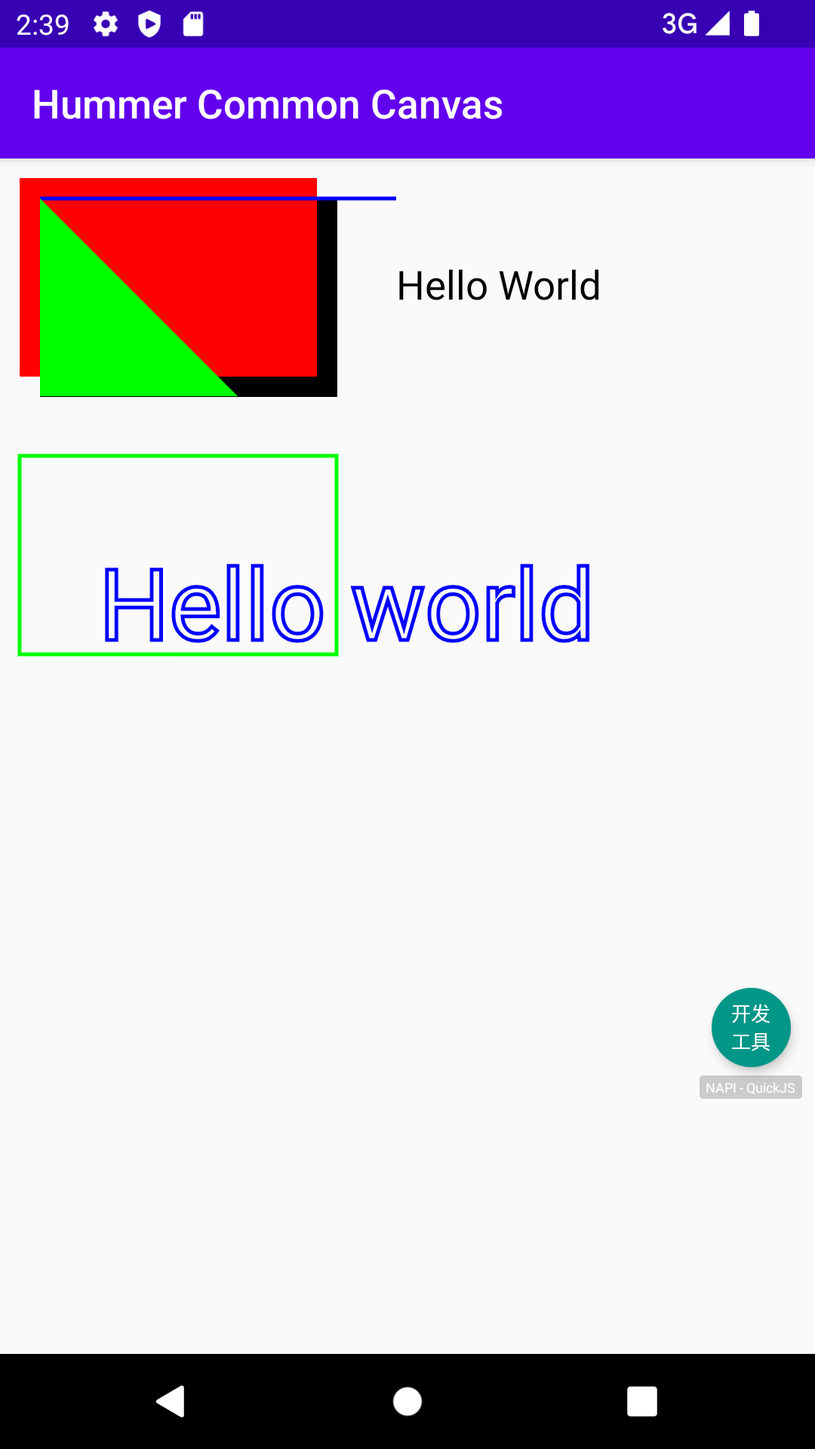
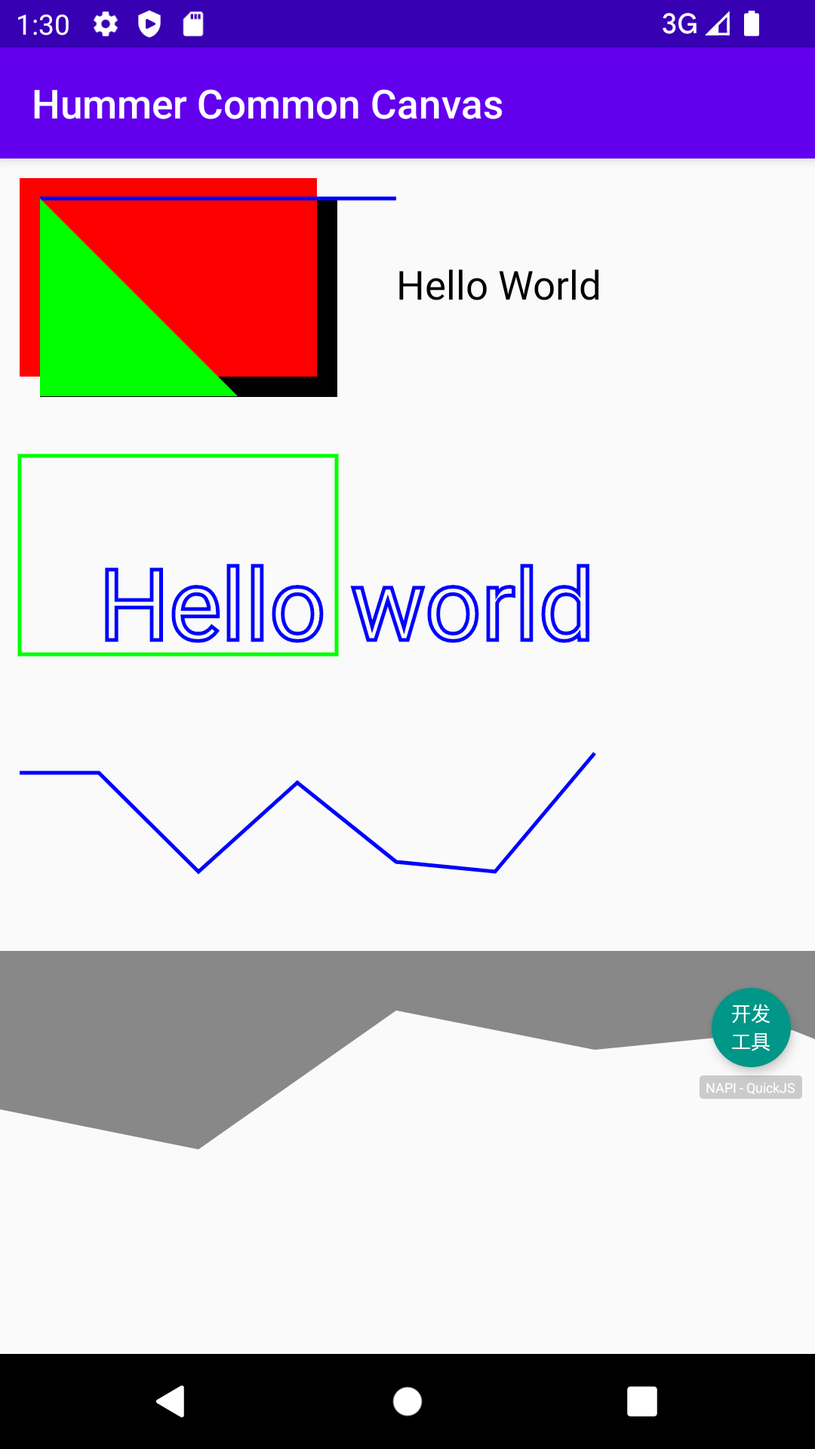
d3-shape demo

diff --git a/app/src/main/assets/d3-shape@3.js b/app/src/main/assets/d3-shape@3.js
@@ -1,0 +1,2 @@
+// https://d3js.org/d3-shape/ v3.2.0 Copyright 2010-2022 Mike Bostock
+!function(t,n){"object"==typeof exports&&"undefined"!=typeof module?n(exports,require("d3-path")):"function"==typeof define&&define.amd?define(["exports","d3-path"],n):n((t="undefined"!=typeof globalThis?globalThis:t||self).d3=t.d3||{},t.d3)}(this,(function(t,n){"use strict";function i(t){return function(){return t}}const e=Math.abs,s=Math.atan2,o=Math.cos,h=Math.max,_=Math.min,r=Math.sin,a=Math.sqrt,l=1e-12,c=Math.PI,u=c/2,f=2*c;function y(t){return t>1?0:t<-1?c:Math.acos(t)}function x(t){return t>=1?u:t<=-1?-u:Math.asin(t)}function p(t){let i=3;return t.digits=function(n){if(!arguments.length)return i;if(null==n)i=null;else{const t=Math.floor(n);if(!(t>=0))throw new RangeError(`invalid digits: ${n}`);i=t}return t},()=>new n.Path(i)}function v(t){return t.innerRadius}function d(t){return t.outerRadius}function T(t){return t.startAngle}function g(t){return t.endAngle}function m(t){return t&&t.padAngle}function b(t,n,i,e,s,o,h,_){var r=i-t,a=e-n,c=h-s,u=_-o,f=u*r-c*a;if(!(f*f<l))return[t+(f=(c*(n-o)-u*(t-s))/f)*r,n+f*a]}function w(t,n,i,e,s,o,_){var r=t-i,l=n-e,c=(_?o:-o)/a(r*r+l*l),u=c*l,f=-c*r,y=t+u,x=n+f,p=i+u,v=e+f,d=(y+p)/2,T=(x+v)/2,g=p-y,m=v-x,b=g*g+m*m,w=s-o,k=y*v-p*x,N=(m<0?-1:1)*a(h(0,w*w*b-k*k)),S=(k*m-g*N)/b,E=(-k*g-m*N)/b,A=(k*m+g*N)/b,P=(-k*g+m*N)/b,M=S-d,C=E-T,R=A-d,O=P-T;return M*M+C*C>R*R+O*O&&(S=A,E=P),{cx:S,cy:E,x01:-u,y01:-f,x11:S*(s/w-1),y11:E*(s/w-1)}}var k=Array.prototype.slice;function N(t){return"object"==typeof t&&"length"in t?t:Array.from(t)}function S(t){this._context=t}function E(t){return new S(t)}function A(t){return t[0]}function P(t){return t[1]}function M(t,n){var e=i(!0),s=null,o=E,h=null,_=p(r);function r(i){var r,a,l,c=(i=N(i)).length,u=!1;for(null==s&&(h=o(l=_())),r=0;r<=c;++r)!(r<c&&e(a=i[r],r,i))===u&&((u=!u)?h.lineStart():h.lineEnd()),u&&h.point(+t(a,r,i),+n(a,r,i));if(l)return h=null,l+""||null}return t="function"==typeof t?t:void 0===t?A:i(t),n="function"==typeof n?n:void 0===n?P:i(n),r.x=function(n){return arguments.length?(t="function"==typeof n?n:i(+n),r):t},r.y=function(t){return arguments.length?(n="function"==typeof t?t:i(+t),r):n},r.defined=function(t){return arguments.length?(e="function"==typeof t?t:i(!!t),r):e},r.curve=function(t){return arguments.length?(o=t,null!=s&&(h=o(s)),r):o},r.context=function(t){return arguments.length?(null==t?s=h=null:h=o(s=t),r):s},r}function C(t,n,e){var s=null,o=i(!0),h=null,_=E,r=null,a=p(l);function l(i){var l,c,u,f,y,x=(i=N(i)).length,p=!1,v=new Array(x),d=new Array(x);for(null==h&&(r=_(y=a())),l=0;l<=x;++l){if(!(l<x&&o(f=i[l],l,i))===p)if(p=!p)c=l,r.areaStart(),r.lineStart();else{for(r.lineEnd(),r.lineStart(),u=l-1;u>=c;--u)r.point(v[u],d[u]);r.lineEnd(),r.areaEnd()}p&&(v[l]=+t(f,l,i),d[l]=+n(f,l,i),r.point(s?+s(f,l,i):v[l],e?+e(f,l,i):d[l]))}if(y)return r=null,y+""||null}function c(){return M().defined(o).curve(_).context(h)}return t="function"==typeof t?t:void 0===t?A:i(+t),n="function"==typeof n?n:i(void 0===n?0:+n),e="function"==typeof e?e:void 0===e?P:i(+e),l.x=function(n){return arguments.length?(t="function"==typeof n?n:i(+n),s=null,l):t},l.x0=function(n){return arguments.length?(t="function"==typeof n?n:i(+n),l):t},l.x1=function(t){return arguments.length?(s=null==t?null:"function"==typeof t?t:i(+t),l):s},l.y=function(t){return arguments.length?(n="function"==typeof t?t:i(+t),e=null,l):n},l.y0=function(t){return arguments.length?(n="function"==typeof t?t:i(+t),l):n},l.y1=function(t){return arguments.length?(e=null==t?null:"function"==typeof t?t:i(+t),l):e},l.lineX0=l.lineY0=function(){return c().x(t).y(n)},l.lineY1=function(){return c().x(t).y(e)},l.lineX1=function(){return c().x(s).y(n)},l.defined=function(t){return arguments.length?(o="function"==typeof t?t:i(!!t),l):o},l.curve=function(t){return arguments.length?(_=t,null!=h&&(r=_(h)),l):_},l.context=function(t){return arguments.length?(null==t?h=r=null:r=_(h=t),l):h},l}function R(t,n){return n<t?-1:n>t?1:n>=t?0:NaN}function O(t){return t}S.prototype={areaStart:function(){this._line=0},areaEnd:function(){this._line=NaN},lineStart:function(){this._point=0},lineEnd:function(){(this._line||0!==this._line&&1===this._point)&&this._context.closePath(),this._line=1-this._line},point:function(t,n){switch(t=+t,n=+n,this._point){case 0:this._point=1,this._line?this._context.lineTo(t,n):this._context.moveTo(t,n);break;case 1:this._point=2;default:this._context.lineTo(t,n)}}};var z=Y(E);function X(t){this._curve=t}function Y(t){function n(n){return new X(t(n))}return n._curve=t,n}function q(t){var n=t.curve;return t.angle=t.x,delete t.x,t.radius=t.y,delete t.y,t.curve=function(t){return arguments.length?n(Y(t)):n()._curve},t}function B(){return q(M().curve(z))}function D(){var t=C().curve(z),n=t.curve,i=t.lineX0,e=t.lineX1,s=t.lineY0,o=t.lineY1;return t.angle=t.x,delete t.x,t.startAngle=t.x0,delete t.x0,t.endAngle=t.x1,delete t.x1,t.radius=t.y,delete t.y,t.innerRadius=t.y0,delete t.y0,t.outerRadius=t.y1,delete t.y1,t.lineStartAngle=function(){return q(i())},delete t.lineX0,t.lineEndAngle=function(){return q(e())},delete t.lineX1,t.lineInnerRadius=function(){return q(s())},delete t.lineY0,t.lineOuterRadius=function(){return q(o())},delete t.lineY1,t.curve=function(t){return arguments.length?n(Y(t)):n()._curve},t}function I(t,n){return[(n=+n)*Math.cos(t-=Math.PI/2),n*Math.sin(t)]}X.prototype={areaStart:function(){this._curve.areaStart()},areaEnd:function(){this._curve.areaEnd()},lineStart:function(){this._curve.lineStart()},lineEnd:function(){this._curve.lineEnd()},point:function(t,n){this._curve.point(n*Math.sin(t),n*-Math.cos(t))}};class j{constructor(t,n){this._context=t,this._x=n}areaStart(){this._line=0}areaEnd(){this._line=NaN}lineStart(){this._point=0}lineEnd(){(this._line||0!==this._line&&1===this._point)&&this._context.closePath(),this._line=1-this._line}point(t,n){switch(t=+t,n=+n,this._point){case 0:this._point=1,this._line?this._context.lineTo(t,n):this._context.moveTo(t,n);break;case 1:this._point=2;default:this._x?this._context.bezierCurveTo(this._x0=(this._x0+t)/2,this._y0,this._x0,n,t,n):this._context.bezierCurveTo(this._x0,this._y0=(this._y0+n)/2,t,this._y0,t,n)}this._x0=t,this._y0=n}}class L{constructor(t){this._context=t}lineStart(){this._point=0}lineEnd(){}point(t,n){if(t=+t,n=+n,0===this._point)this._point=1;else{const i=I(this._x0,this._y0),e=I(this._x0,this._y0=(this._y0+n)/2),s=I(t,this._y0),o=I(t,n);this._context.moveTo(...i),this._context.bezierCurveTo(...e,...s,...o)}this._x0=t,this._y0=n}}function V(t){return new j(t,!0)}function W(t){return new j(t,!1)}function F(t){return new L(t)}function H(t){return t.source}function $(t){return t.target}function G(t){let n=H,e=$,s=A,o=P,h=null,_=null,r=p(a);function a(){let i;const a=k.call(arguments),l=n.apply(this,a),c=e.apply(this,a);if(null==h&&(_=t(i=r())),_.lineStart(),a[0]=l,_.point(+s.apply(this,a),+o.apply(this,a)),a[0]=c,_.point(+s.apply(this,a),+o.apply(this,a)),_.lineEnd(),i)return _=null,i+""||null}return a.source=function(t){return arguments.length?(n=t,a):n},a.target=function(t){return arguments.length?(e=t,a):e},a.x=function(t){return arguments.length?(s="function"==typeof t?t:i(+t),a):s},a.y=function(t){return arguments.length?(o="function"==typeof t?t:i(+t),a):o},a.context=function(n){return arguments.length?(null==n?h=_=null:_=t(h=n),a):h},a}const J=a(3);var K={draw(t,n){const i=.59436*a(n+_(n/28,.75)),e=i/2,s=e*J;t.moveTo(0,i),t.lineTo(0,-i),t.moveTo(-s,-e),t.lineTo(s,e),t.moveTo(-s,e),t.lineTo(s,-e)}},Q={draw(t,n){const i=a(n/c);t.moveTo(i,0),t.arc(0,0,i,0,f)}},U={draw(t,n){const i=a(n/5)/2;t.moveTo(-3*i,-i),t.lineTo(-i,-i),t.lineTo(-i,-3*i),t.lineTo(i,-3*i),t.lineTo(i,-i),t.lineTo(3*i,-i),t.lineTo(3*i,i),t.lineTo(i,i),t.lineTo(i,3*i),t.lineTo(-i,3*i),t.lineTo(-i,i),t.lineTo(-3*i,i),t.closePath()}};const Z=a(1/3),tt=2*Z;var nt={draw(t,n){const i=a(n/tt),e=i*Z;t.moveTo(0,-i),t.lineTo(e,0),t.lineTo(0,i),t.lineTo(-e,0),t.closePath()}},it={draw(t,n){const i=.62625*a(n);t.moveTo(0,-i),t.lineTo(i,0),t.lineTo(0,i),t.lineTo(-i,0),t.closePath()}},et={draw(t,n){const i=.87559*a(n-_(n/7,2));t.moveTo(-i,0),t.lineTo(i,0),t.moveTo(0,i),t.lineTo(0,-i)}},st={draw(t,n){const i=a(n),e=-i/2;t.rect(e,e,i,i)}},ot={draw(t,n){const i=.4431*a(n);t.moveTo(i,i),t.lineTo(i,-i),t.lineTo(-i,-i),t.lineTo(-i,i),t.closePath()}};const ht=r(c/10)/r(7*c/10),_t=r(f/10)*ht,rt=-o(f/10)*ht;var at={draw(t,n){const i=a(.8908130915292852*n),e=_t*i,s=rt*i;t.moveTo(0,-i),t.lineTo(e,s);for(let n=1;n<5;++n){const h=f*n/5,_=o(h),a=r(h);t.lineTo(a*i,-_*i),t.lineTo(_*e-a*s,a*e+_*s)}t.closePath()}};const lt=a(3);var ct={draw(t,n){const i=-a(n/(3*lt));t.moveTo(0,2*i),t.lineTo(-lt*i,-i),t.lineTo(lt*i,-i),t.closePath()}};const ut=a(3);var ft={draw(t,n){const i=.6824*a(n),e=i/2,s=i*ut/2;t.moveTo(0,-i),t.lineTo(s,e),t.lineTo(-s,e),t.closePath()}};const yt=-.5,xt=a(3)/2,pt=1/a(12),vt=3*(pt/2+1);var dt={draw(t,n){const i=a(n/vt),e=i/2,s=i*pt,o=e,h=i*pt+i,_=-o,r=h;t.moveTo(e,s),t.lineTo(o,h),t.lineTo(_,r),t.lineTo(yt*e-xt*s,xt*e+yt*s),t.lineTo(yt*o-xt*h,xt*o+yt*h),t.lineTo(yt*_-xt*r,xt*_+yt*r),t.lineTo(yt*e+xt*s,yt*s-xt*e),t.lineTo(yt*o+xt*h,yt*h-xt*o),t.lineTo(yt*_+xt*r,yt*r-xt*_),t.closePath()}},Tt={draw(t,n){const i=.6189*a(n-_(n/6,1.7));t.moveTo(-i,-i),t.lineTo(i,i),t.moveTo(-i,i),t.lineTo(i,-i)}};const gt=[Q,U,nt,st,at,ct,dt],mt=[Q,et,Tt,ft,K,ot,it];function bt(){}function wt(t,n,i){t._context.bezierCurveTo((2*t._x0+t._x1)/3,(2*t._y0+t._y1)/3,(t._x0+2*t._x1)/3,(t._y0+2*t._y1)/3,(t._x0+4*t._x1+n)/6,(t._y0+4*t._y1+i)/6)}function kt(t){this._context=t}function Nt(t){this._context=t}function St(t){this._context=t}function Et(t,n){this._basis=new kt(t),this._beta=n}kt.prototype={areaStart:function(){this._line=0},areaEnd:function(){this._line=NaN},lineStart:function(){this._x0=this._x1=this._y0=this._y1=NaN,this._point=0},lineEnd:function(){switch(this._point){case 3:wt(this,this._x1,this._y1);case 2:this._context.lineTo(this._x1,this._y1)}(this._line||0!==this._line&&1===this._point)&&this._context.closePath(),this._line=1-this._line},point:function(t,n){switch(t=+t,n=+n,this._point){case 0:this._point=1,this._line?this._context.lineTo(t,n):this._context.moveTo(t,n);break;case 1:this._point=2;break;case 2:this._point=3,this._context.lineTo((5*this._x0+this._x1)/6,(5*this._y0+this._y1)/6);default:wt(this,t,n)}this._x0=this._x1,this._x1=t,this._y0=this._y1,this._y1=n}},Nt.prototype={areaStart:bt,areaEnd:bt,lineStart:function(){this._x0=this._x1=this._x2=this._x3=this._x4=this._y0=this._y1=this._y2=this._y3=this._y4=NaN,this._point=0},lineEnd:function(){switch(this._point){case 1:this._context.moveTo(this._x2,this._y2),this._context.closePath();break;case 2:this._context.moveTo((this._x2+2*this._x3)/3,(this._y2+2*this._y3)/3),this._context.lineTo((this._x3+2*this._x2)/3,(this._y3+2*this._y2)/3),this._context.closePath();break;case 3:this.point(this._x2,this._y2),this.point(this._x3,this._y3),this.point(this._x4,this._y4)}},point:function(t,n){switch(t=+t,n=+n,this._point){case 0:this._point=1,this._x2=t,this._y2=n;break;case 1:this._point=2,this._x3=t,this._y3=n;break;case 2:this._point=3,this._x4=t,this._y4=n,this._context.moveTo((this._x0+4*this._x1+t)/6,(this._y0+4*this._y1+n)/6);break;default:wt(this,t,n)}this._x0=this._x1,this._x1=t,this._y0=this._y1,this._y1=n}},St.prototype={areaStart:function(){this._line=0},areaEnd:function(){this._line=NaN},lineStart:function(){this._x0=this._x1=this._y0=this._y1=NaN,this._point=0},lineEnd:function(){(this._line||0!==this._line&&3===this._point)&&this._context.closePath(),this._line=1-this._line},point:function(t,n){switch(t=+t,n=+n,this._point){case 0:this._point=1;break;case 1:this._point=2;break;case 2:this._point=3;var i=(this._x0+4*this._x1+t)/6,e=(this._y0+4*this._y1+n)/6;this._line?this._context.lineTo(i,e):this._context.moveTo(i,e);break;case 3:this._point=4;default:wt(this,t,n)}this._x0=this._x1,this._x1=t,this._y0=this._y1,this._y1=n}},Et.prototype={lineStart:function(){this._x=[],this._y=[],this._basis.lineStart()},lineEnd:function(){var t=this._x,n=this._y,i=t.length-1;if(i>0)for(var e,s=t[0],o=n[0],h=t[i]-s,_=n[i]-o,r=-1;++r<=i;)e=r/i,this._basis.point(this._beta*t[r]+(1-this._beta)*(s+e*h),this._beta*n[r]+(1-this._beta)*(o+e*_));this._x=this._y=null,this._basis.lineEnd()},point:function(t,n){this._x.push(+t),this._y.push(+n)}};var At=function t(n){function i(t){return 1===n?new kt(t):new Et(t,n)}return i.beta=function(n){return t(+n)},i}(.85);function Pt(t,n,i){t._context.bezierCurveTo(t._x1+t._k*(t._x2-t._x0),t._y1+t._k*(t._y2-t._y0),t._x2+t._k*(t._x1-n),t._y2+t._k*(t._y1-i),t._x2,t._y2)}function Mt(t,n){this._context=t,this._k=(1-n)/6}Mt.prototype={areaStart:function(){this._line=0},areaEnd:function(){this._line=NaN},lineStart:function(){this._x0=this._x1=this._x2=this._y0=this._y1=this._y2=NaN,this._point=0},lineEnd:function(){switch(this._point){case 2:this._context.lineTo(this._x2,this._y2);break;case 3:Pt(this,this._x1,this._y1)}(this._line||0!==this._line&&1===this._point)&&this._context.closePath(),this._line=1-this._line},point:function(t,n){switch(t=+t,n=+n,this._point){case 0:this._point=1,this._line?this._context.lineTo(t,n):this._context.moveTo(t,n);break;case 1:this._point=2,this._x1=t,this._y1=n;break;case 2:this._point=3;default:Pt(this,t,n)}this._x0=this._x1,this._x1=this._x2,this._x2=t,this._y0=this._y1,this._y1=this._y2,this._y2=n}};var Ct=function t(n){function i(t){return new Mt(t,n)}return i.tension=function(n){return t(+n)},i}(0);function Rt(t,n){this._context=t,this._k=(1-n)/6}Rt.prototype={areaStart:bt,areaEnd:bt,lineStart:function(){this._x0=this._x1=this._x2=this._x3=this._x4=this._x5=this._y0=this._y1=this._y2=this._y3=this._y4=this._y5=NaN,this._point=0},lineEnd:function(){switch(this._point){case 1:this._context.moveTo(this._x3,this._y3),this._context.closePath();break;case 2:this._context.lineTo(this._x3,this._y3),this._context.closePath();break;case 3:this.point(this._x3,this._y3),this.point(this._x4,this._y4),this.point(this._x5,this._y5)}},point:function(t,n){switch(t=+t,n=+n,this._point){case 0:this._point=1,this._x3=t,this._y3=n;break;case 1:this._point=2,this._context.moveTo(this._x4=t,this._y4=n);break;case 2:this._point=3,this._x5=t,this._y5=n;break;default:Pt(this,t,n)}this._x0=this._x1,this._x1=this._x2,this._x2=t,this._y0=this._y1,this._y1=this._y2,this._y2=n}};var Ot=function t(n){function i(t){return new Rt(t,n)}return i.tension=function(n){return t(+n)},i}(0);function zt(t,n){this._context=t,this._k=(1-n)/6}zt.prototype={areaStart:function(){this._line=0},areaEnd:function(){this._line=NaN},lineStart:function(){this._x0=this._x1=this._x2=this._y0=this._y1=this._y2=NaN,this._point=0},lineEnd:function(){(this._line||0!==this._line&&3===this._point)&&this._context.closePath(),this._line=1-this._line},point:function(t,n){switch(t=+t,n=+n,this._point){case 0:this._point=1;break;case 1:this._point=2;break;case 2:this._point=3,this._line?this._context.lineTo(this._x2,this._y2):this._context.moveTo(this._x2,this._y2);break;case 3:this._point=4;default:Pt(this,t,n)}this._x0=this._x1,this._x1=this._x2,this._x2=t,this._y0=this._y1,this._y1=this._y2,this._y2=n}};var Xt=function t(n){function i(t){return new zt(t,n)}return i.tension=function(n){return t(+n)},i}(0);function Yt(t,n,i){var e=t._x1,s=t._y1,o=t._x2,h=t._y2;if(t._l01_a>l){var _=2*t._l01_2a+3*t._l01_a*t._l12_a+t._l12_2a,r=3*t._l01_a*(t._l01_a+t._l12_a);e=(e*_-t._x0*t._l12_2a+t._x2*t._l01_2a)/r,s=(s*_-t._y0*t._l12_2a+t._y2*t._l01_2a)/r}if(t._l23_a>l){var a=2*t._l23_2a+3*t._l23_a*t._l12_a+t._l12_2a,c=3*t._l23_a*(t._l23_a+t._l12_a);o=(o*a+t._x1*t._l23_2a-n*t._l12_2a)/c,h=(h*a+t._y1*t._l23_2a-i*t._l12_2a)/c}t._context.bezierCurveTo(e,s,o,h,t._x2,t._y2)}function qt(t,n){this._context=t,this._alpha=n}qt.prototype={areaStart:function(){this._line=0},areaEnd:function(){this._line=NaN},lineStart:function(){this._x0=this._x1=this._x2=this._y0=this._y1=this._y2=NaN,this._l01_a=this._l12_a=this._l23_a=this._l01_2a=this._l12_2a=this._l23_2a=this._point=0},lineEnd:function(){switch(this._point){case 2:this._context.lineTo(this._x2,this._y2);break;case 3:this.point(this._x2,this._y2)}(this._line||0!==this._line&&1===this._point)&&this._context.closePath(),this._line=1-this._line},point:function(t,n){if(t=+t,n=+n,this._point){var i=this._x2-t,e=this._y2-n;this._l23_a=Math.sqrt(this._l23_2a=Math.pow(i*i+e*e,this._alpha))}switch(this._point){case 0:this._point=1,this._line?this._context.lineTo(t,n):this._context.moveTo(t,n);break;case 1:this._point=2;break;case 2:this._point=3;default:Yt(this,t,n)}this._l01_a=this._l12_a,this._l12_a=this._l23_a,this._l01_2a=this._l12_2a,this._l12_2a=this._l23_2a,this._x0=this._x1,this._x1=this._x2,this._x2=t,this._y0=this._y1,this._y1=this._y2,this._y2=n}};var Bt=function t(n){function i(t){return n?new qt(t,n):new Mt(t,0)}return i.alpha=function(n){return t(+n)},i}(.5);function Dt(t,n){this._context=t,this._alpha=n}Dt.prototype={areaStart:bt,areaEnd:bt,lineStart:function(){this._x0=this._x1=this._x2=this._x3=this._x4=this._x5=this._y0=this._y1=this._y2=this._y3=this._y4=this._y5=NaN,this._l01_a=this._l12_a=this._l23_a=this._l01_2a=this._l12_2a=this._l23_2a=this._point=0},lineEnd:function(){switch(this._point){case 1:this._context.moveTo(this._x3,this._y3),this._context.closePath();break;case 2:this._context.lineTo(this._x3,this._y3),this._context.closePath();break;case 3:this.point(this._x3,this._y3),this.point(this._x4,this._y4),this.point(this._x5,this._y5)}},point:function(t,n){if(t=+t,n=+n,this._point){var i=this._x2-t,e=this._y2-n;this._l23_a=Math.sqrt(this._l23_2a=Math.pow(i*i+e*e,this._alpha))}switch(this._point){case 0:this._point=1,this._x3=t,this._y3=n;break;case 1:this._point=2,this._context.moveTo(this._x4=t,this._y4=n);break;case 2:this._point=3,this._x5=t,this._y5=n;break;default:Yt(this,t,n)}this._l01_a=this._l12_a,this._l12_a=this._l23_a,this._l01_2a=this._l12_2a,this._l12_2a=this._l23_2a,this._x0=this._x1,this._x1=this._x2,this._x2=t,this._y0=this._y1,this._y1=this._y2,this._y2=n}};var It=function t(n){function i(t){return n?new Dt(t,n):new Rt(t,0)}return i.alpha=function(n){return t(+n)},i}(.5);function jt(t,n){this._context=t,this._alpha=n}jt.prototype={areaStart:function(){this._line=0},areaEnd:function(){this._line=NaN},lineStart:function(){this._x0=this._x1=this._x2=this._y0=this._y1=this._y2=NaN,this._l01_a=this._l12_a=this._l23_a=this._l01_2a=this._l12_2a=this._l23_2a=this._point=0},lineEnd:function(){(this._line||0!==this._line&&3===this._point)&&this._context.closePath(),this._line=1-this._line},point:function(t,n){if(t=+t,n=+n,this._point){var i=this._x2-t,e=this._y2-n;this._l23_a=Math.sqrt(this._l23_2a=Math.pow(i*i+e*e,this._alpha))}switch(this._point){case 0:this._point=1;break;case 1:this._point=2;break;case 2:this._point=3,this._line?this._context.lineTo(this._x2,this._y2):this._context.moveTo(this._x2,this._y2);break;case 3:this._point=4;default:Yt(this,t,n)}this._l01_a=this._l12_a,this._l12_a=this._l23_a,this._l01_2a=this._l12_2a,this._l12_2a=this._l23_2a,this._x0=this._x1,this._x1=this._x2,this._x2=t,this._y0=this._y1,this._y1=this._y2,this._y2=n}};var Lt=function t(n){function i(t){return n?new jt(t,n):new zt(t,0)}return i.alpha=function(n){return t(+n)},i}(.5);function Vt(t){this._context=t}function Wt(t){return t<0?-1:1}function Ft(t,n,i){var e=t._x1-t._x0,s=n-t._x1,o=(t._y1-t._y0)/(e||s<0&&-0),h=(i-t._y1)/(s||e<0&&-0),_=(o*s+h*e)/(e+s);return(Wt(o)+Wt(h))*Math.min(Math.abs(o),Math.abs(h),.5*Math.abs(_))||0}function Ht(t,n){var i=t._x1-t._x0;return i?(3*(t._y1-t._y0)/i-n)/2:n}function $t(t,n,i){var e=t._x0,s=t._y0,o=t._x1,h=t._y1,_=(o-e)/3;t._context.bezierCurveTo(e+_,s+_*n,o-_,h-_*i,o,h)}function Gt(t){this._context=t}function Jt(t){this._context=new Kt(t)}function Kt(t){this._context=t}function Qt(t){this._context=t}function Ut(t){var n,i,e=t.length-1,s=new Array(e),o=new Array(e),h=new Array(e);for(s[0]=0,o[0]=2,h[0]=t[0]+2*t[1],n=1;n<e-1;++n)s[n]=1,o[n]=4,h[n]=4*t[n]+2*t[n+1];for(s[e-1]=2,o[e-1]=7,h[e-1]=8*t[e-1]+t[e],n=1;n<e;++n)i=s[n]/o[n-1],o[n]-=i,h[n]-=i*h[n-1];for(s[e-1]=h[e-1]/o[e-1],n=e-2;n>=0;--n)s[n]=(h[n]-s[n+1])/o[n];for(o[e-1]=(t[e]+s[e-1])/2,n=0;n<e-1;++n)o[n]=2*t[n+1]-s[n+1];return[s,o]}function Zt(t,n){this._context=t,this._t=n}function tn(t,n){if((s=t.length)>1)for(var i,e,s,o=1,h=t[n[0]],_=h.length;o<s;++o)for(e=h,h=t[n[o]],i=0;i<_;++i)h[i][1]+=h[i][0]=isNaN(e[i][1])?e[i][0]:e[i][1]}function nn(t){for(var n=t.length,i=new Array(n);--n>=0;)i[n]=n;return i}function en(t,n){return t[n]}function sn(t){const n=[];return n.key=t,n}function on(t){var n=t.map(hn);return nn(t).sort((function(t,i){return n[t]-n[i]}))}function hn(t){for(var n,i=-1,e=0,s=t.length,o=-1/0;++i<s;)(n=+t[i][1])>o&&(o=n,e=i);return e}function _n(t){var n=t.map(rn);return nn(t).sort((function(t,i){return n[t]-n[i]}))}function rn(t){for(var n,i=0,e=-1,s=t.length;++e<s;)(n=+t[e][1])&&(i+=n);return i}Vt.prototype={areaStart:bt,areaEnd:bt,lineStart:function(){this._point=0},lineEnd:function(){this._point&&this._context.closePath()},point:function(t,n){t=+t,n=+n,this._point?this._context.lineTo(t,n):(this._point=1,this._context.moveTo(t,n))}},Gt.prototype={areaStart:function(){this._line=0},areaEnd:function(){this._line=NaN},lineStart:function(){this._x0=this._x1=this._y0=this._y1=this._t0=NaN,this._point=0},lineEnd:function(){switch(this._point){case 2:this._context.lineTo(this._x1,this._y1);break;case 3:$t(this,this._t0,Ht(this,this._t0))}(this._line||0!==this._line&&1===this._point)&&this._context.closePath(),this._line=1-this._line},point:function(t,n){var i=NaN;if(n=+n,(t=+t)!==this._x1||n!==this._y1){switch(this._point){case 0:this._point=1,this._line?this._context.lineTo(t,n):this._context.moveTo(t,n);break;case 1:this._point=2;break;case 2:this._point=3,$t(this,Ht(this,i=Ft(this,t,n)),i);break;default:$t(this,this._t0,i=Ft(this,t,n))}this._x0=this._x1,this._x1=t,this._y0=this._y1,this._y1=n,this._t0=i}}},(Jt.prototype=Object.create(Gt.prototype)).point=function(t,n){Gt.prototype.point.call(this,n,t)},Kt.prototype={moveTo:function(t,n){this._context.moveTo(n,t)},closePath:function(){this._context.closePath()},lineTo:function(t,n){this._context.lineTo(n,t)},bezierCurveTo:function(t,n,i,e,s,o){this._context.bezierCurveTo(n,t,e,i,o,s)}},Qt.prototype={areaStart:function(){this._line=0},areaEnd:function(){this._line=NaN},lineStart:function(){this._x=[],this._y=[]},lineEnd:function(){var t=this._x,n=this._y,i=t.length;if(i)if(this._line?this._context.lineTo(t[0],n[0]):this._context.moveTo(t[0],n[0]),2===i)this._context.lineTo(t[1],n[1]);else for(var e=Ut(t),s=Ut(n),o=0,h=1;h<i;++o,++h)this._context.bezierCurveTo(e[0][o],s[0][o],e[1][o],s[1][o],t[h],n[h]);(this._line||0!==this._line&&1===i)&&this._context.closePath(),this._line=1-this._line,this._x=this._y=null},point:function(t,n){this._x.push(+t),this._y.push(+n)}},Zt.prototype={areaStart:function(){this._line=0},areaEnd:function(){this._line=NaN},lineStart:function(){this._x=this._y=NaN,this._point=0},lineEnd:function(){0<this._t&&this._t<1&&2===this._point&&this._context.lineTo(this._x,this._y),(this._line||0!==this._line&&1===this._point)&&this._context.closePath(),this._line>=0&&(this._t=1-this._t,this._line=1-this._line)},point:function(t,n){switch(t=+t,n=+n,this._point){case 0:this._point=1,this._line?this._context.lineTo(t,n):this._context.moveTo(t,n);break;case 1:this._point=2;default:if(this._t<=0)this._context.lineTo(this._x,n),this._context.lineTo(t,n);else{var i=this._x*(1-this._t)+t*this._t;this._context.lineTo(i,this._y),this._context.lineTo(i,n)}}this._x=t,this._y=n}},t.arc=function(){var t=v,n=d,h=i(0),k=null,N=T,S=g,E=m,A=null,P=p(M);function M(){var i,p,v=+t.apply(this,arguments),d=+n.apply(this,arguments),T=N.apply(this,arguments)-u,g=S.apply(this,arguments)-u,m=e(g-T),M=g>T;if(A||(A=i=P()),d<v&&(p=d,d=v,v=p),d>l)if(m>f-l)A.moveTo(d*o(T),d*r(T)),A.arc(0,0,d,T,g,!M),v>l&&(A.moveTo(v*o(g),v*r(g)),A.arc(0,0,v,g,T,M));else{var C,R,O=T,z=g,X=T,Y=g,q=m,B=m,D=E.apply(this,arguments)/2,I=D>l&&(k?+k.apply(this,arguments):a(v*v+d*d)),j=_(e(d-v)/2,+h.apply(this,arguments)),L=j,V=j;if(I>l){var W=x(I/v*r(D)),F=x(I/d*r(D));(q-=2*W)>l?(X+=W*=M?1:-1,Y-=W):(q=0,X=Y=(T+g)/2),(B-=2*F)>l?(O+=F*=M?1:-1,z-=F):(B=0,O=z=(T+g)/2)}var H=d*o(O),$=d*r(O),G=v*o(Y),J=v*r(Y);if(j>l){var K,Q=d*o(z),U=d*r(z),Z=v*o(X),tt=v*r(X);if(m<c)if(K=b(H,$,Z,tt,Q,U,G,J)){var nt=H-K[0],it=$-K[1],et=Q-K[0],st=U-K[1],ot=1/r(y((nt*et+it*st)/(a(nt*nt+it*it)*a(et*et+st*st)))/2),ht=a(K[0]*K[0]+K[1]*K[1]);L=_(j,(v-ht)/(ot-1)),V=_(j,(d-ht)/(ot+1))}else L=V=0}B>l?V>l?(C=w(Z,tt,H,$,d,V,M),R=w(Q,U,G,J,d,V,M),A.moveTo(C.cx+C.x01,C.cy+C.y01),V<j?A.arc(C.cx,C.cy,V,s(C.y01,C.x01),s(R.y01,R.x01),!M):(A.arc(C.cx,C.cy,V,s(C.y01,C.x01),s(C.y11,C.x11),!M),A.arc(0,0,d,s(C.cy+C.y11,C.cx+C.x11),s(R.cy+R.y11,R.cx+R.x11),!M),A.arc(R.cx,R.cy,V,s(R.y11,R.x11),s(R.y01,R.x01),!M))):(A.moveTo(H,$),A.arc(0,0,d,O,z,!M)):A.moveTo(H,$),v>l&&q>l?L>l?(C=w(G,J,Q,U,v,-L,M),R=w(H,$,Z,tt,v,-L,M),A.lineTo(C.cx+C.x01,C.cy+C.y01),L<j?A.arc(C.cx,C.cy,L,s(C.y01,C.x01),s(R.y01,R.x01),!M):(A.arc(C.cx,C.cy,L,s(C.y01,C.x01),s(C.y11,C.x11),!M),A.arc(0,0,v,s(C.cy+C.y11,C.cx+C.x11),s(R.cy+R.y11,R.cx+R.x11),M),A.arc(R.cx,R.cy,L,s(R.y11,R.x11),s(R.y01,R.x01),!M))):A.arc(0,0,v,Y,X,M):A.lineTo(G,J)}else A.moveTo(0,0);if(A.closePath(),i)return A=null,i+""||null}return M.centroid=function(){var i=(+t.apply(this,arguments)+ +n.apply(this,arguments))/2,e=(+N.apply(this,arguments)+ +S.apply(this,arguments))/2-c/2;return[o(e)*i,r(e)*i]},M.innerRadius=function(n){return arguments.length?(t="function"==typeof n?n:i(+n),M):t},M.outerRadius=function(t){return arguments.length?(n="function"==typeof t?t:i(+t),M):n},M.cornerRadius=function(t){return arguments.length?(h="function"==typeof t?t:i(+t),M):h},M.padRadius=function(t){return arguments.length?(k=null==t?null:"function"==typeof t?t:i(+t),M):k},M.startAngle=function(t){return arguments.length?(N="function"==typeof t?t:i(+t),M):N},M.endAngle=function(t){return arguments.length?(S="function"==typeof t?t:i(+t),M):S},M.padAngle=function(t){return arguments.length?(E="function"==typeof t?t:i(+t),M):E},M.context=function(t){return arguments.length?(A=null==t?null:t,M):A},M},t.area=C,t.areaRadial=D,t.curveBasis=function(t){return new kt(t)},t.curveBasisClosed=function(t){return new Nt(t)},t.curveBasisOpen=function(t){return new St(t)},t.curveBumpX=V,t.curveBumpY=W,t.curveBundle=At,t.curveCardinal=Ct,t.curveCardinalClosed=Ot,t.curveCardinalOpen=Xt,t.curveCatmullRom=Bt,t.curveCatmullRomClosed=It,t.curveCatmullRomOpen=Lt,t.curveLinear=E,t.curveLinearClosed=function(t){return new Vt(t)},t.curveMonotoneX=function(t){return new Gt(t)},t.curveMonotoneY=function(t){return new Jt(t)},t.curveNatural=function(t){return new Qt(t)},t.curveStep=function(t){return new Zt(t,.5)},t.curveStepAfter=function(t){return new Zt(t,1)},t.curveStepBefore=function(t){return new Zt(t,0)},t.line=M,t.lineRadial=B,t.link=G,t.linkHorizontal=function(){return G(V)},t.linkRadial=function(){const t=G(F);return t.angle=t.x,delete t.x,t.radius=t.y,delete t.y,t},t.linkVertical=function(){return G(W)},t.pie=function(){var t=O,n=R,e=null,s=i(0),o=i(f),h=i(0);function _(i){var _,r,a,l,c,u=(i=N(i)).length,y=0,x=new Array(u),p=new Array(u),v=+s.apply(this,arguments),d=Math.min(f,Math.max(-f,o.apply(this,arguments)-v)),T=Math.min(Math.abs(d)/u,h.apply(this,arguments)),g=T*(d<0?-1:1);for(_=0;_<u;++_)(c=p[x[_]=_]=+t(i[_],_,i))>0&&(y+=c);for(null!=n?x.sort((function(t,i){return n(p[t],p[i])})):null!=e&&x.sort((function(t,n){return e(i[t],i[n])})),_=0,a=y?(d-u*g)/y:0;_<u;++_,v=l)r=x[_],l=v+((c=p[r])>0?c*a:0)+g,p[r]={data:i[r],index:_,value:c,startAngle:v,endAngle:l,padAngle:T};return p}return _.value=function(n){return arguments.length?(t="function"==typeof n?n:i(+n),_):t},_.sortValues=function(t){return arguments.length?(n=t,e=null,_):n},_.sort=function(t){return arguments.length?(e=t,n=null,_):e},_.startAngle=function(t){return arguments.length?(s="function"==typeof t?t:i(+t),_):s},_.endAngle=function(t){return arguments.length?(o="function"==typeof t?t:i(+t),_):o},_.padAngle=function(t){return arguments.length?(h="function"==typeof t?t:i(+t),_):h},_},t.pointRadial=I,t.radialArea=D,t.radialLine=B,t.stack=function(){var t=i([]),n=nn,e=tn,s=en;function o(i){var o,h,_=Array.from(t.apply(this,arguments),sn),r=_.length,a=-1;for(const t of i)for(o=0,++a;o<r;++o)(_[o][a]=[0,+s(t,_[o].key,a,i)]).data=t;for(o=0,h=N(n(_));o<r;++o)_[h[o]].index=o;return e(_,h),_}return o.keys=function(n){return arguments.length?(t="function"==typeof n?n:i(Array.from(n)),o):t},o.value=function(t){return arguments.length?(s="function"==typeof t?t:i(+t),o):s},o.order=function(t){return arguments.length?(n=null==t?nn:"function"==typeof t?t:i(Array.from(t)),o):n},o.offset=function(t){return arguments.length?(e=null==t?tn:t,o):e},o},t.stackOffsetDiverging=function(t,n){if((_=t.length)>0)for(var i,e,s,o,h,_,r=0,a=t[n[0]].length;r<a;++r)for(o=h=0,i=0;i<_;++i)(s=(e=t[n[i]][r])[1]-e[0])>0?(e[0]=o,e[1]=o+=s):s<0?(e[1]=h,e[0]=h+=s):(e[0]=0,e[1]=s)},t.stackOffsetExpand=function(t,n){if((e=t.length)>0){for(var i,e,s,o=0,h=t[0].length;o<h;++o){for(s=i=0;i<e;++i)s+=t[i][o][1]||0;if(s)for(i=0;i<e;++i)t[i][o][1]/=s}tn(t,n)}},t.stackOffsetNone=tn,t.stackOffsetSilhouette=function(t,n){if((i=t.length)>0){for(var i,e=0,s=t[n[0]],o=s.length;e<o;++e){for(var h=0,_=0;h<i;++h)_+=t[h][e][1]||0;s[e][1]+=s[e][0]=-_/2}tn(t,n)}},t.stackOffsetWiggle=function(t,n){if((s=t.length)>0&&(e=(i=t[n[0]]).length)>0){for(var i,e,s,o=0,h=1;h<e;++h){for(var _=0,r=0,a=0;_<s;++_){for(var l=t[n[_]],c=l[h][1]||0,u=(c-(l[h-1][1]||0))/2,f=0;f<_;++f){var y=t[n[f]];u+=(y[h][1]||0)-(y[h-1][1]||0)}r+=c,a+=u*c}i[h-1][1]+=i[h-1][0]=o,r&&(o-=a/r)}i[h-1][1]+=i[h-1][0]=o,tn(t,n)}},t.stackOrderAppearance=on,t.stackOrderAscending=_n,t.stackOrderDescending=function(t){return _n(t).reverse()},t.stackOrderInsideOut=function(t){var n,i,e=t.length,s=t.map(rn),o=on(t),h=0,_=0,r=[],a=[];for(n=0;n<e;++n)i=o[n],h<_?(h+=s[i],r.push(i)):(_+=s[i],a.push(i));return a.reverse().concat(r)},t.stackOrderNone=nn,t.stackOrderReverse=function(t){return nn(t).reverse()},t.symbol=function(t,n){let e=null,s=p(o);function o(){let i;if(e||(e=i=s()),t.apply(this,arguments).draw(e,+n.apply(this,arguments)),i)return e=null,i+""||null}return t="function"==typeof t?t:i(t||Q),n="function"==typeof n?n:i(void 0===n?64:+n),o.type=function(n){return arguments.length?(t="function"==typeof n?n:i(n),o):t},o.size=function(t){return arguments.length?(n="function"==typeof t?t:i(+t),o):n},o.context=function(t){return arguments.length?(e=null==t?null:t,o):e},o},t.symbolAsterisk=K,t.symbolCircle=Q,t.symbolCross=U,t.symbolDiamond=nt,t.symbolDiamond2=it,t.symbolPlus=et,t.symbolSquare=st,t.symbolSquare2=ot,t.symbolStar=at,t.symbolTimes=Tt,t.symbolTriangle=ct,t.symbolTriangle2=ft,t.symbolWye=dt,t.symbolX=Tt,t.symbols=gt,t.symbolsFill=gt,t.symbolsStroke=mt}));

diff --git a/app/src/main/assets/d3-path@3.js b/app/src/main/assets/d3-path@3.js
@@ -1,0 +1,2 @@
+// https://d3js.org/d3-path/ v3.1.0 Copyright 2015-2022 Mike Bostock
+!function(t,i){"object"==typeof exports&&"undefined"!=typeof module?i(exports):"function"==typeof define&&define.amd?define(["exports"],i):i((t="undefined"!=typeof globalThis?globalThis:t||self).d3=t.d3||{})}(this,(function(t){"use strict";const i=Math.PI,s=2*i,h=1e-6,e=s-h;function n(t){this._+=t[0];for(let i=1,s=t.length;i<s;++i)this._+=arguments[i]+t[i]}class _{constructor(t){this._x0=this._y0=this._x1=this._y1=null,this._="",this._append=null==t?n:function(t){let i=Math.floor(t);if(!(i>=0))throw new Error(`invalid digits: ${t}`);if(i>15)return n;const s=10**i;return function(t){this._+=t[0];for(let i=1,h=t.length;i<h;++i)this._+=Math.round(arguments[i]*s)/s+t[i]}}(t)}moveTo(t,i){this._append`M${this._x0=this._x1=+t},${this._y0=this._y1=+i}`}closePath(){null!==this._x1&&(this._x1=this._x0,this._y1=this._y0,this._append`Z`)}lineTo(t,i){this._append`L${this._x1=+t},${this._y1=+i}`}quadraticCurveTo(t,i,s,h){this._append`Q${+t},${+i},${this._x1=+s},${this._y1=+h}`}bezierCurveTo(t,i,s,h,e,n){this._append`C${+t},${+i},${+s},${+h},${this._x1=+e},${this._y1=+n}`}arcTo(t,s,e,n,_){if(t=+t,s=+s,e=+e,n=+n,(_=+_)<0)throw new Error(`negative radius: ${_}`);let a=this._x1,$=this._y1,o=e-t,r=n-s,p=a-t,d=$-s,l=p*p+d*d;if(null===this._x1)this._append`M${this._x1=t},${this._y1=s}`;else if(l>h)if(Math.abs(d*o-r*p)>h&&_){let u=e-a,f=n-$,x=o*o+r*r,y=u*u+f*f,c=Math.sqrt(x),M=Math.sqrt(l),b=_*Math.tan((i-Math.acos((x+l-y)/(2*c*M)))/2),g=b/M,w=b/c;Math.abs(g-1)>h&&this._append`L${t+g*p},${s+g*d}`,this._append`A${_},${_},0,0,${+(d*u>p*f)},${this._x1=t+w*o},${this._y1=s+w*r}`}else this._append`L${this._x1=t},${this._y1=s}`;else;}arc(t,n,_,a,$,o){if(t=+t,n=+n,o=!!o,(_=+_)<0)throw new Error(`negative radius: ${_}`);let r=_*Math.cos(a),p=_*Math.sin(a),d=t+r,l=n+p,u=1^o,f=o?a-$:$-a;null===this._x1?this._append`M${d},${l}`:(Math.abs(this._x1-d)>h||Math.abs(this._y1-l)>h)&&this._append`L${d},${l}`,_&&(f<0&&(f=f%s+s),f>e?this._append`A${_},${_},0,1,${u},${t-r},${n-p}A${_},${_},0,1,${u},${this._x1=d},${this._y1=l}`:f>h&&this._append`A${_},${_},0,${+(f>=i)},${u},${this._x1=t+_*Math.cos($)},${this._y1=n+_*Math.sin($)}`)}rect(t,i,s,h){this._append`M${this._x0=this._x1=+t},${this._y0=this._y1=+i}h${s=+s}v${+h}h${-s}Z`}toString(){return this._}}function a(){return new _}a.prototype=_.prototype,t.Path=_,t.path=a,t.pathRound=function(t=3){return new _(+t)}}));

diff --git a/app/src/main/assets/HummerCanvas.js b/app/src/main/assets/HummerCanvas.js
@@ -41,4 +41,37 @@ ctx.lineWidth = 2;
 ctx.font = "50px serif";
 ctx.strokeText("Hello world", 50, 190, 500);
 
+// draw line by d3-shape
+const lineData = [
+    [10,310],
+    [50,310],
+    [100,360],
+    [150,315],
+    [200,355],
+    [250,360],
+    [300,300]
+];
+const lineCreator = d3.line().x(function(d){return d[0]}).y(function(d){return d[1]});
+ctx.lineWidth = 2;
+ctx.strokeStyle = "blue";
+lineCreator.context(ctx);
+lineCreator(lineData);
+ctx.stroke();
+
+// draw area by d3-shape
+var areaGenerator = d3.area();
+areaGenerator.y0(400)
+var points = [
+  [0, 480],
+  [100, 500],
+  [200, 430],
+  [300, 450],
+  [400, 440],
+  [500, 480]
+];
+ctx.fillStyle = "gray";
+areaGenerator.context(ctx);
+areaGenerator(points);
+ctx.fill()
+
 Hummer.render(canvas);

diff --git a/app/src/main/java/com/example/hummer/HummerCanvasActivity.java b/app/src/main/java/com/example/hummer/HummerCanvasActivity.java
@@ -6,6 +6,7 @@ import com.didi.hummer.HummerActivity;
 import com.didi.hummer.adapter.navigator.NavPage;
 import com.didi.hummer.context.HummerContext;
 import com.didi.hummer.register.HummerRegister$$app;
+import com.didi.hummer.utils.AssetsUtil;
 
 /**
  * Hummer页面
@@ -22,6 +23,10 @@ public class HummerCanvasActivity extends HummerActivity {
     protected void initHummerRegister(HummerContext context) {
         // 注册Canvas组件
         HummerRegister$$app.init(context);
+
+        // 注入d3-shape
+        context.evaluateJavaScript(AssetsUtil.readFile("d3-path@3.js"), "d3-path@3.js");
+        context.evaluateJavaScript(AssetsUtil.readFile("d3-shape@3.js"), "d3-shape@3.js");
     }
 
     @Override

diff --git a/app/src/main/java/com/example/hummer/canvas/CanvasComponent.java b/app/src/main/java/com/example/hummer/canvas/CanvasComponent.java
@@ -192,6 +192,9 @@ public class CanvasComponent extends HMBase<CanvasTargetView> {
     @JsMethod("moveTo")
     public void moveTo(Object x, Object y) {
         try {
+            if (path == null) {
+                path = new Path();
+            }
             Log.i(TAG, "x:" + x);
             Log.i(TAG, "y:" + y);
             float x_px = dp2px(x);
@@ -208,6 +211,9 @@ public class CanvasComponent extends HMBase<CanvasTargetView> {
     @JsMethod("lineTo")
     public void lineTo(Object x, Object y) {
         try {
+            if (path == null) {
+                path = new Path();
+            }
             float x_px = dp2px(x);
             float y_px = dp2px(y);
             path.lineTo(x_px, y_px);

diff --git a/README.md b/README.md
@@ -46,6 +46,39 @@ ctx.lineWidth = 2;
 ctx.font = "50px serif";
 ctx.strokeText("Hello world", 50, 190, 500);
 
+// draw line by d3-shape
+const lineData = [
+    [10,310],
+    [50,310],
+    [100,360],
+    [150,315],
+    [200,355],
+    [250,360],
+    [300,300]
+];
+const lineCreator = d3.line().x(function(d){return d[0]}).y(function(d){return d[1]});
+ctx.lineWidth = 2;
+ctx.strokeStyle = "blue";
+lineCreator.context(ctx);
+lineCreator(lineData);
+ctx.stroke();
+
+// draw area by d3-shape
+var areaGenerator = d3.area();
+areaGenerator.y0(400)
+var points = [
+  [0, 480],
+  [100, 500],
+  [200, 430],
+  [300, 450],
+  [400, 440],
+  [500, 480]
+];
+ctx.fillStyle = "gray";
+areaGenerator.context(ctx);
+areaGenerator(points);
+ctx.fill()
+
 Hummer.render(canvas);
 ```
 
